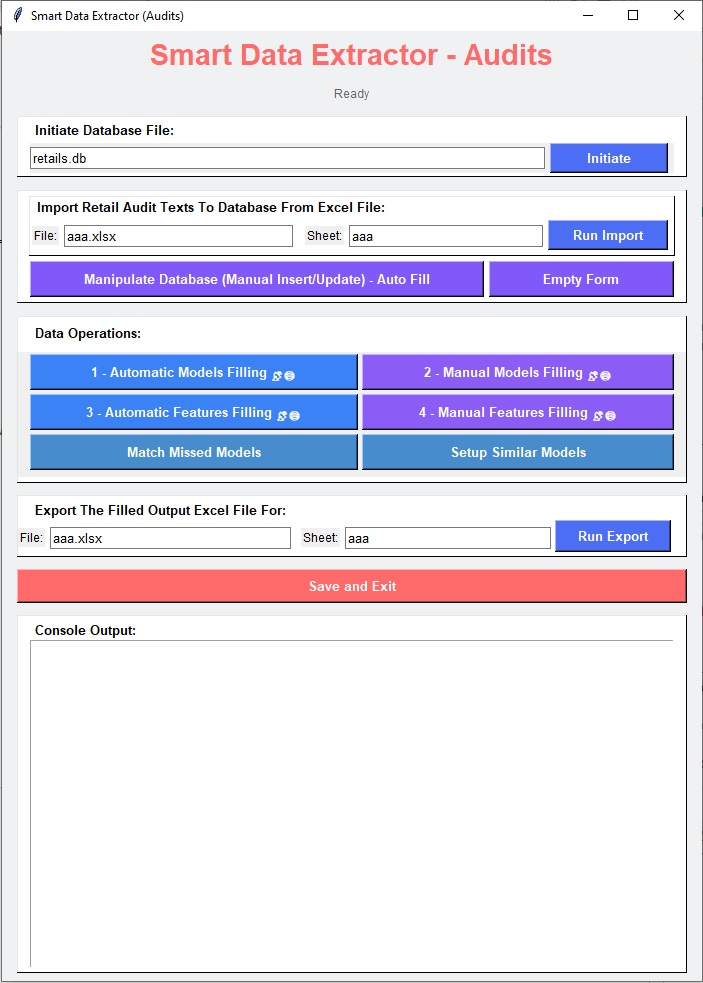
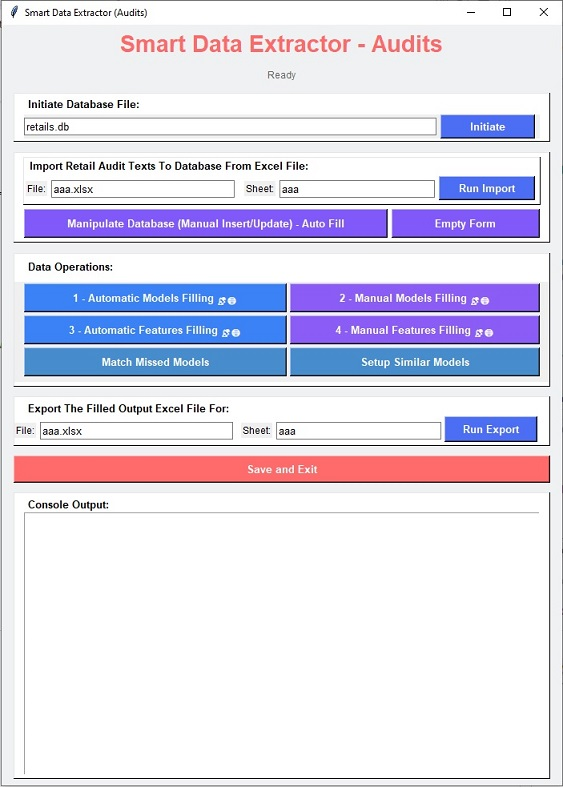
2379

diff --git a/README.md b/README.md
@@ -217,6 +217,7 @@ python main.py
 The application provides a Windows desktop GUI built with Tkinter.
 ### Main Sections
 - Database Initialization
+- Data Completeness Status
 - Excel Import Panel
 - Data Operation Controls
 - Manual Correction Tools
@@ -231,7 +232,7 @@ root_directory/
 ├── SmartDataExtractor/          # Main application package
 │   ├── settings.json            # App configuration
 │   ├── requirements.txt         # Python dependencies
-│   ├── mapping-tables.xlsx      # Mapping reference data
+│   ├── mapping-tables.xlsx      # Mapping data rules
 │   ├── features definition.xlsx # Feature definitions
 │   ├── database.py              # Database logic
 │   └── prompts/                 # LLM prompt templates
